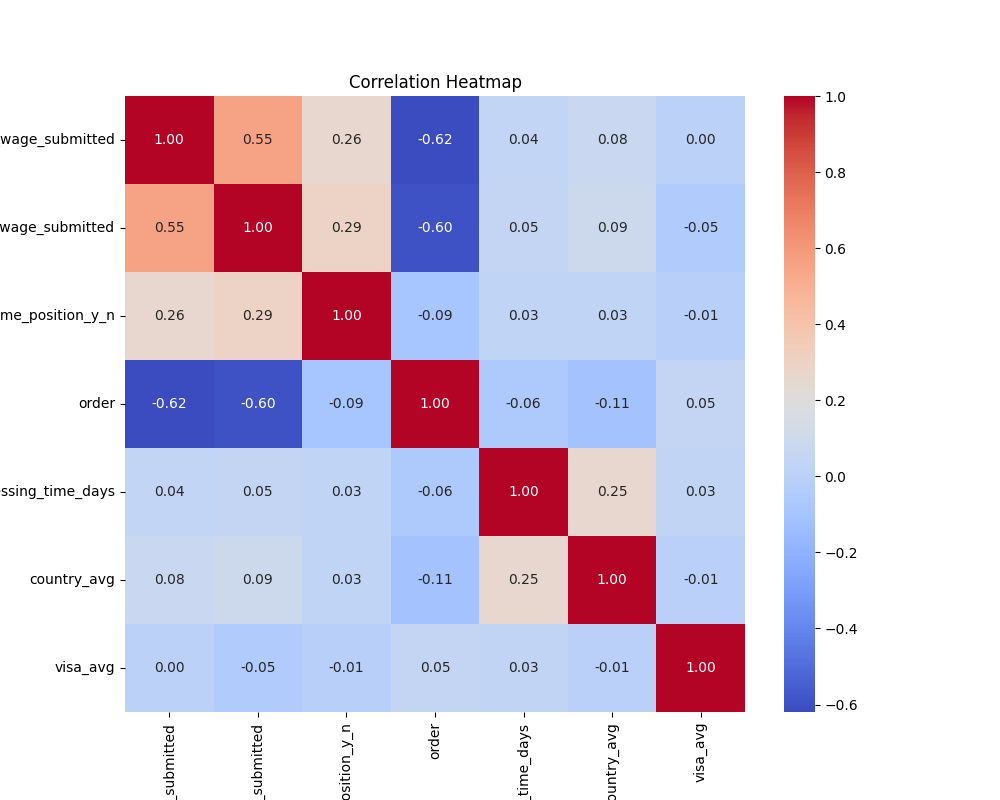
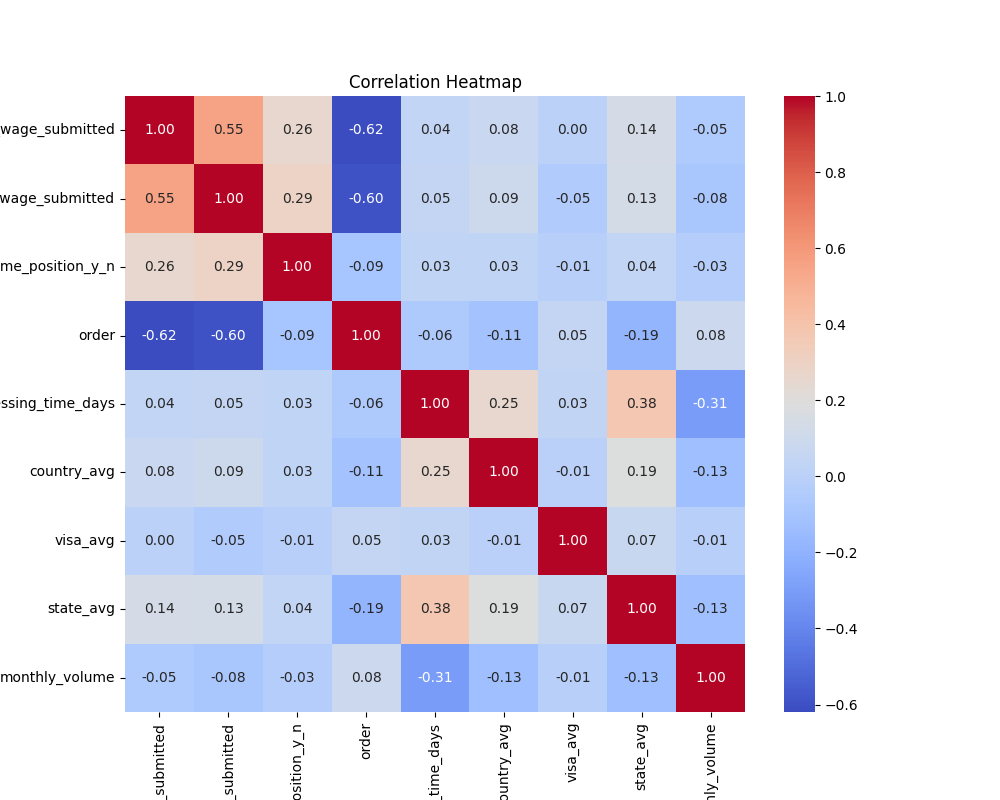
Milestone 2 finalized:  feature engineering and improved EDA

diff --git a/src/eda.py b/src/eda.py
@@ -5,9 +5,9 @@ import seaborn as sns
 import os
 import plotly.express as px
 
-# ----------------------------
+# --------------------------------
 # Path Handling
-# ----------------------------
+# --------------------------------
 BASE_DIR = os.path.dirname(os.path.abspath(__file__))
 DATA_PATH = os.path.join(BASE_DIR, "..", "data", "VisaFile.csv")
 OUTPUT_DIR = os.path.join(BASE_DIR, "..", "outputs")
@@ -17,9 +17,9 @@ os.makedirs(OUTPUT_DIR, exist_ok=True)
 
 def main():
 
-    # ----------------------------
+    # --------------------------------
     # Load Data
-    # ----------------------------
+    # --------------------------------
     df = pd.read_csv(DATA_PATH, encoding="latin1", low_memory=False)
 
     df.columns = (
@@ -30,9 +30,9 @@ def main():
 
     df = df.dropna(subset=["work_city"])
 
-    # ----------------------------
+    # --------------------------------
     # Clean full_time_position_y_n
-    # ----------------------------
+    # --------------------------------
     if "full_time_position_y_n" in df.columns:
 
         print("Missing before:", df["full_time_position_y_n"].isnull().sum())
@@ -61,9 +61,9 @@ def main():
 
         print("Missing after:", df["full_time_position_y_n"].isnull().sum())
 
-    # ----------------------------
+    # --------------------------------
     # Date Processing
-    # ----------------------------
+    # --------------------------------
     df["case_received_date"] = pd.to_datetime(
         df["case_received_date"], format="mixed", errors="coerce"
     )
@@ -79,9 +79,9 @@ def main():
 
     df = df[df["processing_time_days"] >= 0]
 
-    # ----------------------------
+    # --------------------------------
     # Outlier Capping (IQR per visa_status)
-    # ----------------------------
+    # --------------------------------
     def cap_series(series):
         Q1 = series.quantile(0.25)
         Q3 = series.quantile(0.75)
@@ -95,28 +95,48 @@ def main():
         .transform(cap_series)
     )
 
-    # ----------------------------
-    # Feature Engineering
-    # ----------------------------
+    # --------------------------------
+    # INDUSTRY-LEVEL FEATURE ENGINEERING
+    # --------------------------------
+
+    # Time-based features
+    df["year"] = df["case_received_date"].dt.year
     df["month"] = df["case_received_date"].dt.month
+    df["quarter"] = df["case_received_date"].dt.quarter
 
     df["season"] = df["month"].apply(
         lambda x: "Peak" if x in [1, 2, 12] else "Off-Peak"
     )
 
+    # Historical aggregated signals
+
+    # City historical average
     country_avg = df.groupby("work_city")["processing_time_days"].mean()
     df["country_avg"] = df["work_city"].map(country_avg)
 
+    # Visa status historical average
     visa_avg = df.groupby("visa_status")["processing_time_days"].mean()
     df["visa_avg"] = df["visa_status"].map(visa_avg)
 
-    print("Feature columns added:", 
-          ["month", "season", "country_avg", "visa_avg"])
+    # State historical average
+    state_avg = df.groupby("work_state")["processing_time_days"].mean()
+    df["state_avg"] = df["work_state"].map(state_avg)
 
-    # ----------------------------
-    # Encoding (Preparation for ML)
-    # ----------------------------
-    categorical_cols = ["visa_class", "visa_status", "work_state"]
+    # Monthly application volume (Backlog proxy)
+    df["monthly_volume"] = (
+        df.groupby(["year", "month"])["processing_time_days"]
+        .transform("count")
+    )
+
+    print("Industry-level features added:",
+          ["year", "quarter", "season",
+           "country_avg", "visa_avg",
+           "state_avg", "monthly_volume"])
+
+    # --------------------------------
+    # Encoding (ML Preparation)
+    # --------------------------------
+    categorical_cols = ["visa_class", "visa_status", "work_state", "season"]
 
     df_encoded = pd.get_dummies(
         df,
@@ -127,9 +147,9 @@ def main():
     print("Shape before encoding:", df.shape)
     print("Shape after encoding:", df_encoded.shape)
 
-    # ----------------------------
-    # EDA Plots
-    # ----------------------------
+    # --------------------------------
+    # EDA Visualizations
+    # --------------------------------
 
     # Histogram
     plt.figure(figsize=(8, 5))
@@ -138,20 +158,23 @@ def main():
     plt.savefig(os.path.join(OUTPUT_DIR, "processing_time_distribution.png"))
     plt.close()
 
-    # Interactive Plot
+    # Interactive Histogram
     fig = px.histogram(
         df,
         x="processing_time_days",
         nbins=40,
         title="Interactive Processing Time Distribution"
     )
-    fig.write_html(os.path.join(OUTPUT_DIR, "interactive_processing_time.html"))
+    fig.write_html(
+        os.path.join(OUTPUT_DIR, "interactive_processing_time.html")
+    )
 
     # Correlation Heatmap
     num_cols = df.select_dtypes(include=["int64", "float64"]).columns
 
     plt.figure(figsize=(10, 8))
-    sns.heatmap(df[num_cols].corr(), annot=True, cmap="coolwarm", fmt=".2f")
+    sns.heatmap(df[num_cols].corr(), annot=True,
+                cmap="coolwarm", fmt=".2f")
     plt.title("Correlation Heatmap")
     plt.savefig(os.path.join(OUTPUT_DIR, "correlation_heatmap.png"))
     plt.close()
@@ -166,15 +189,16 @@ def main():
     plt.savefig(os.path.join(OUTPUT_DIR, "monthly_trend.png"))
     plt.close()
 
-    # Season Analysis
+    # Season vs Processing
     plt.figure(figsize=(8, 5))
-    sns.barplot(x="season", y="processing_time_days", data=df)
+    sns.barplot(x="season",
+                y="processing_time_days",
+                data=df)
     plt.title("Peak vs Off-Peak Processing Time")
     plt.savefig(os.path.join(OUTPUT_DIR, "season_vs_processing.png"))
     plt.close()
 
-    print("Remaining missing values:")
-    print(df.isnull().sum().sum())
+    print("Remaining missing values:", df.isnull().sum().sum())
 
 
 if __name__ == "__main__":
